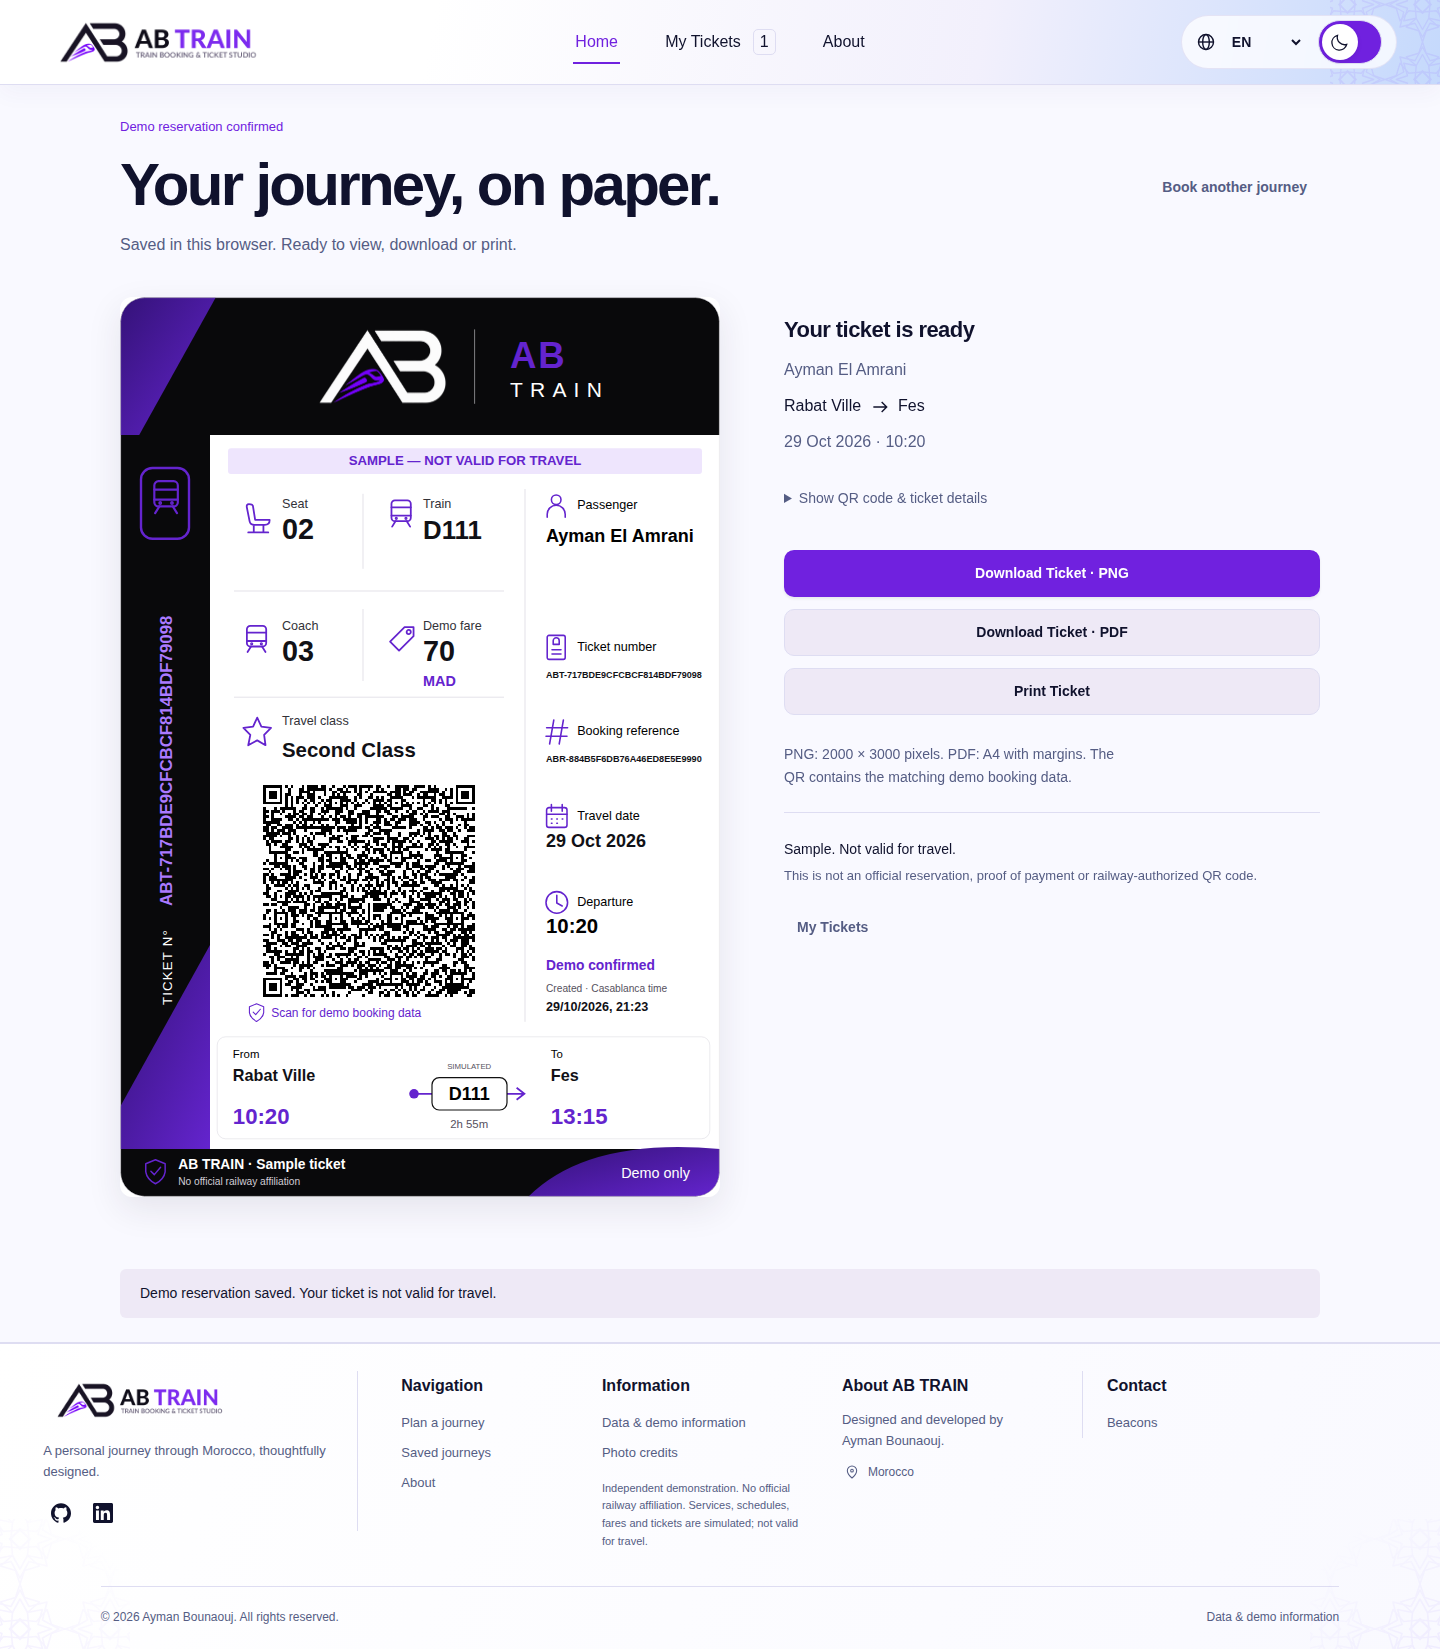
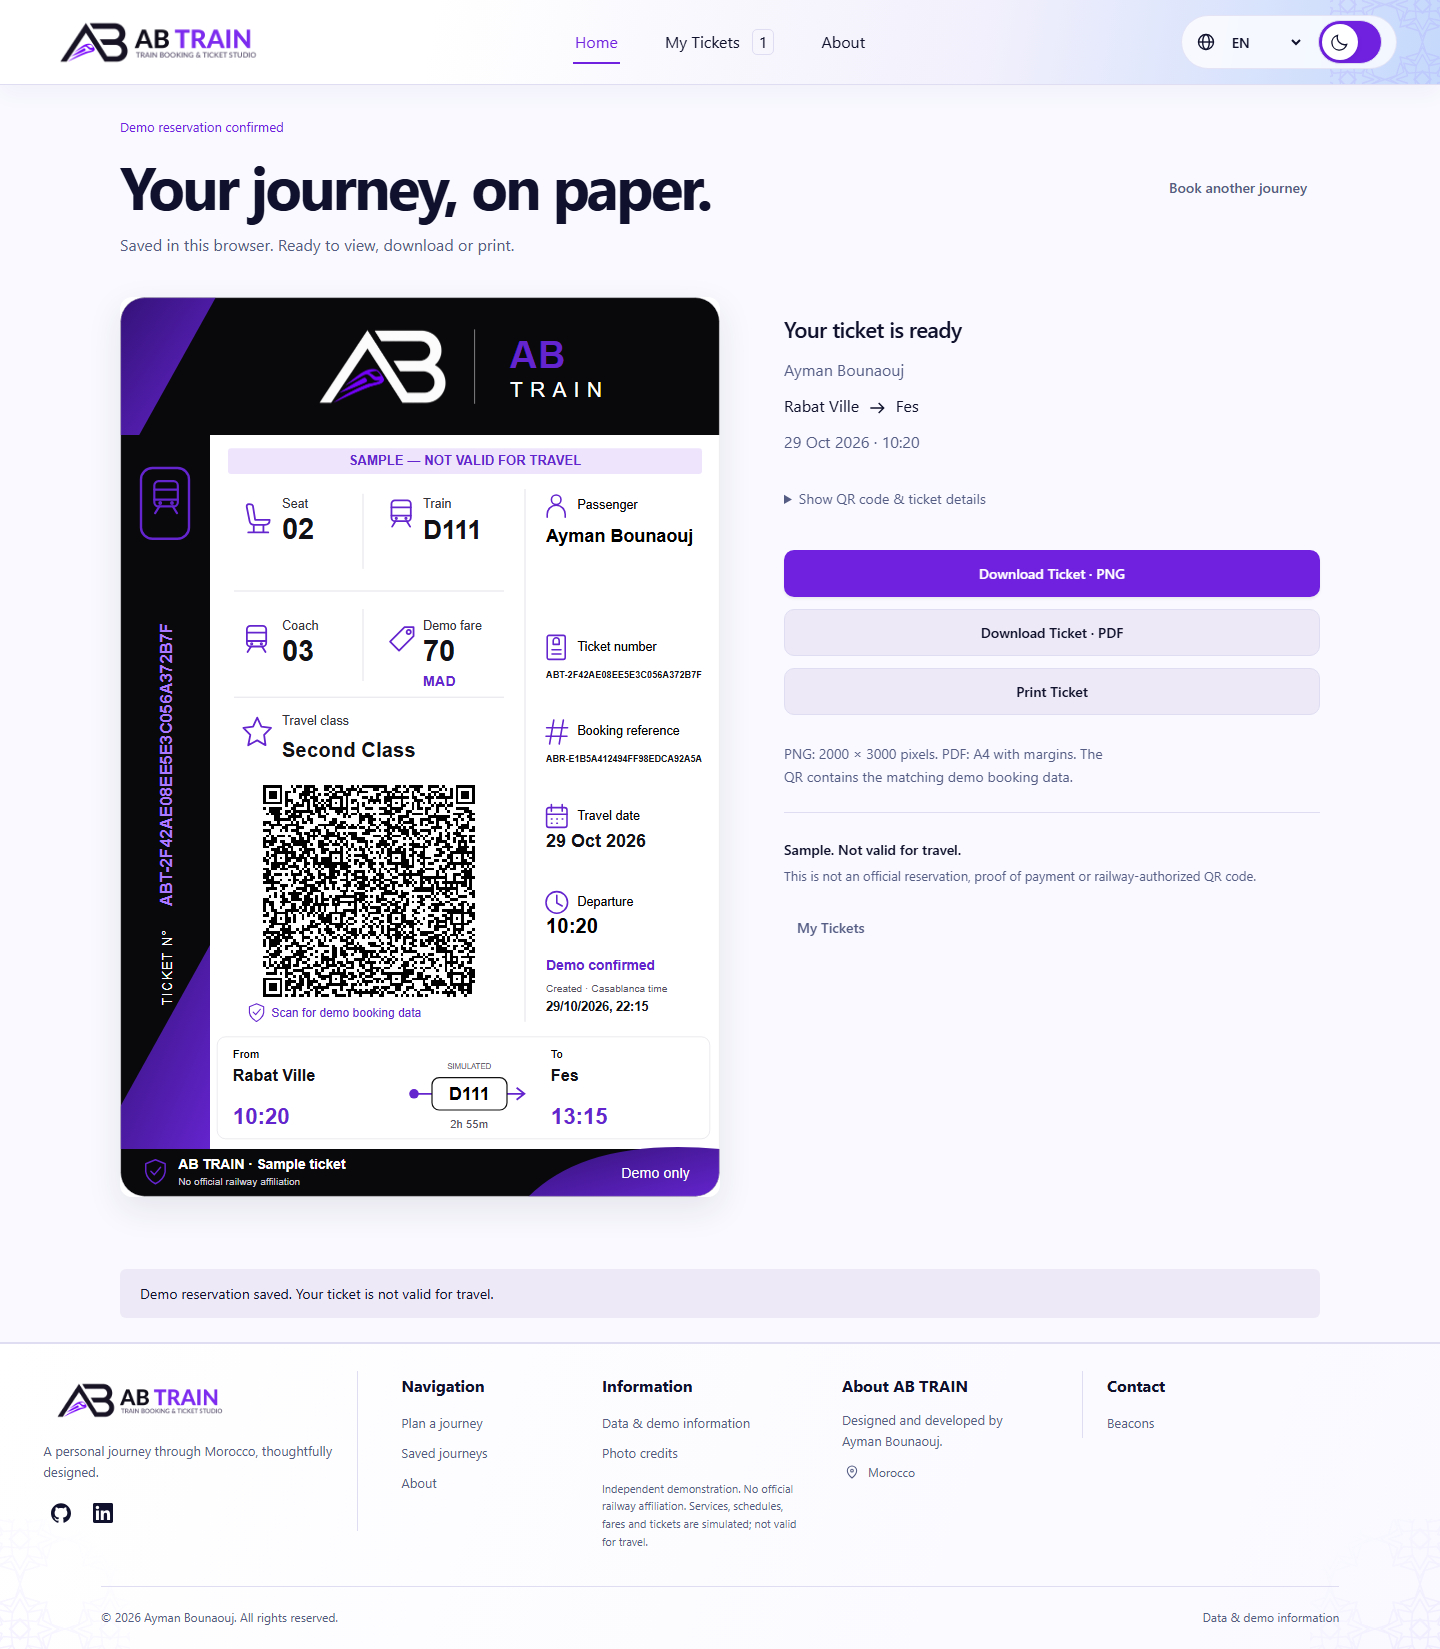
Use Ayman Bounaouj in sample tickets and README preview (#1)
* Use owner display name in sample ticket fixtures [skip ci]

* Refresh README ticket example with owner display name

diff --git a/tests/unit.test.js b/tests/unit.test.js
@@ -54,7 +54,7 @@ const selection = {
   travelClass: "second",
   coach: 3,
   seat,
-  passenger: "Ayman El Amrani",
+  passenger: "Ayman Bounaouj",
 };
 const booking = () => createBooking(selection);
 test("All four translation catalogues contain every key and matching placeholders", () => {
@@ -319,7 +319,7 @@ test("Fares match explicit configurable rules", () => {
   assert.throws(() => fare(service, "third"));
 });
 test("Names accept Unicode and long names but reject unsafe or invalid text", () => {
-  assert.equal(validatePassenger("  Ayman   El Amrani  "), "Ayman El Amrani");
+  assert.equal(validatePassenger("  Ayman   Bounaouj  "), "Ayman Bounaouj");
   assert.equal(validatePassenger("أحمد العلوي"), "أحمد العلوي");
   assert.ok(validatePassenger("Éléonore O’Connor-Abdelrahman"));
   assert.ok(validatePassenger("A".repeat(100)));

diff --git a/tests/booking.spec.js b/tests/booking.spec.js
@@ -22,7 +22,7 @@ async function toSeat(page) {
   ).toBeVisible();
   await page.getByRole("button", { name: "Select Train" }).first().click();
 }
-async function book(page, name = "Ayman El Amrani") {
+async function book(page, name = "Ayman Bounaouj") {
   await toSeat(page);
   const seat = page.locator(".seat:not([disabled])").first();
   const number = await seat.getAttribute("data-seat");
